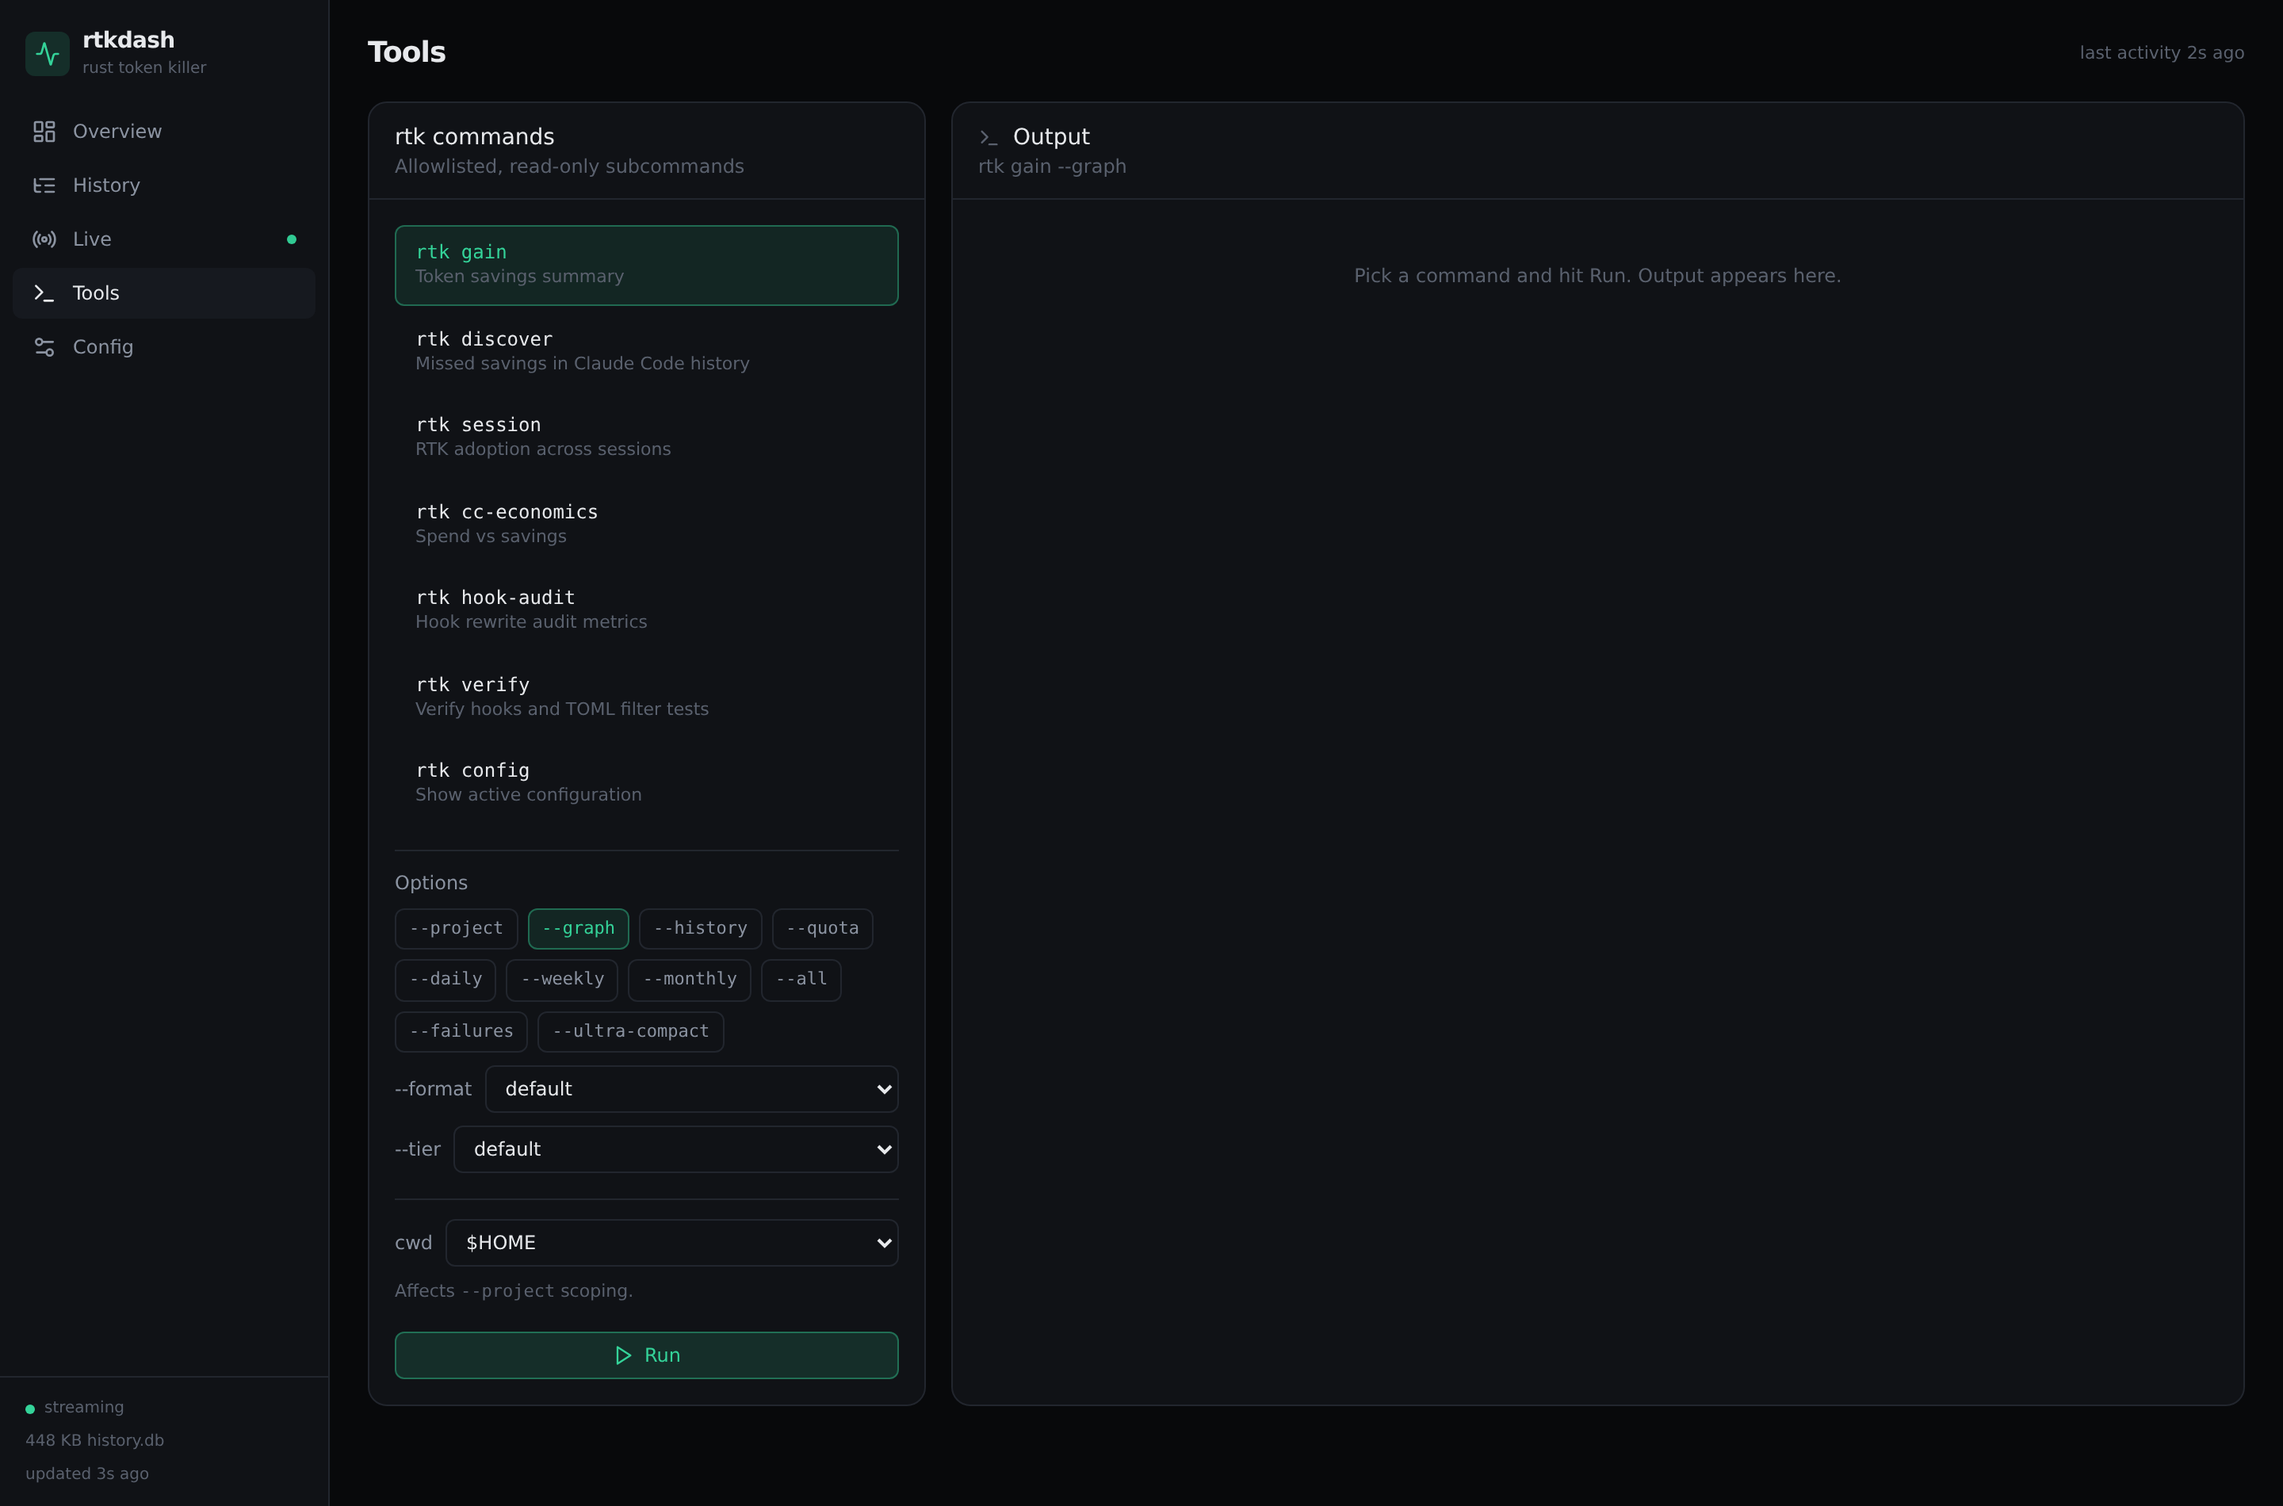
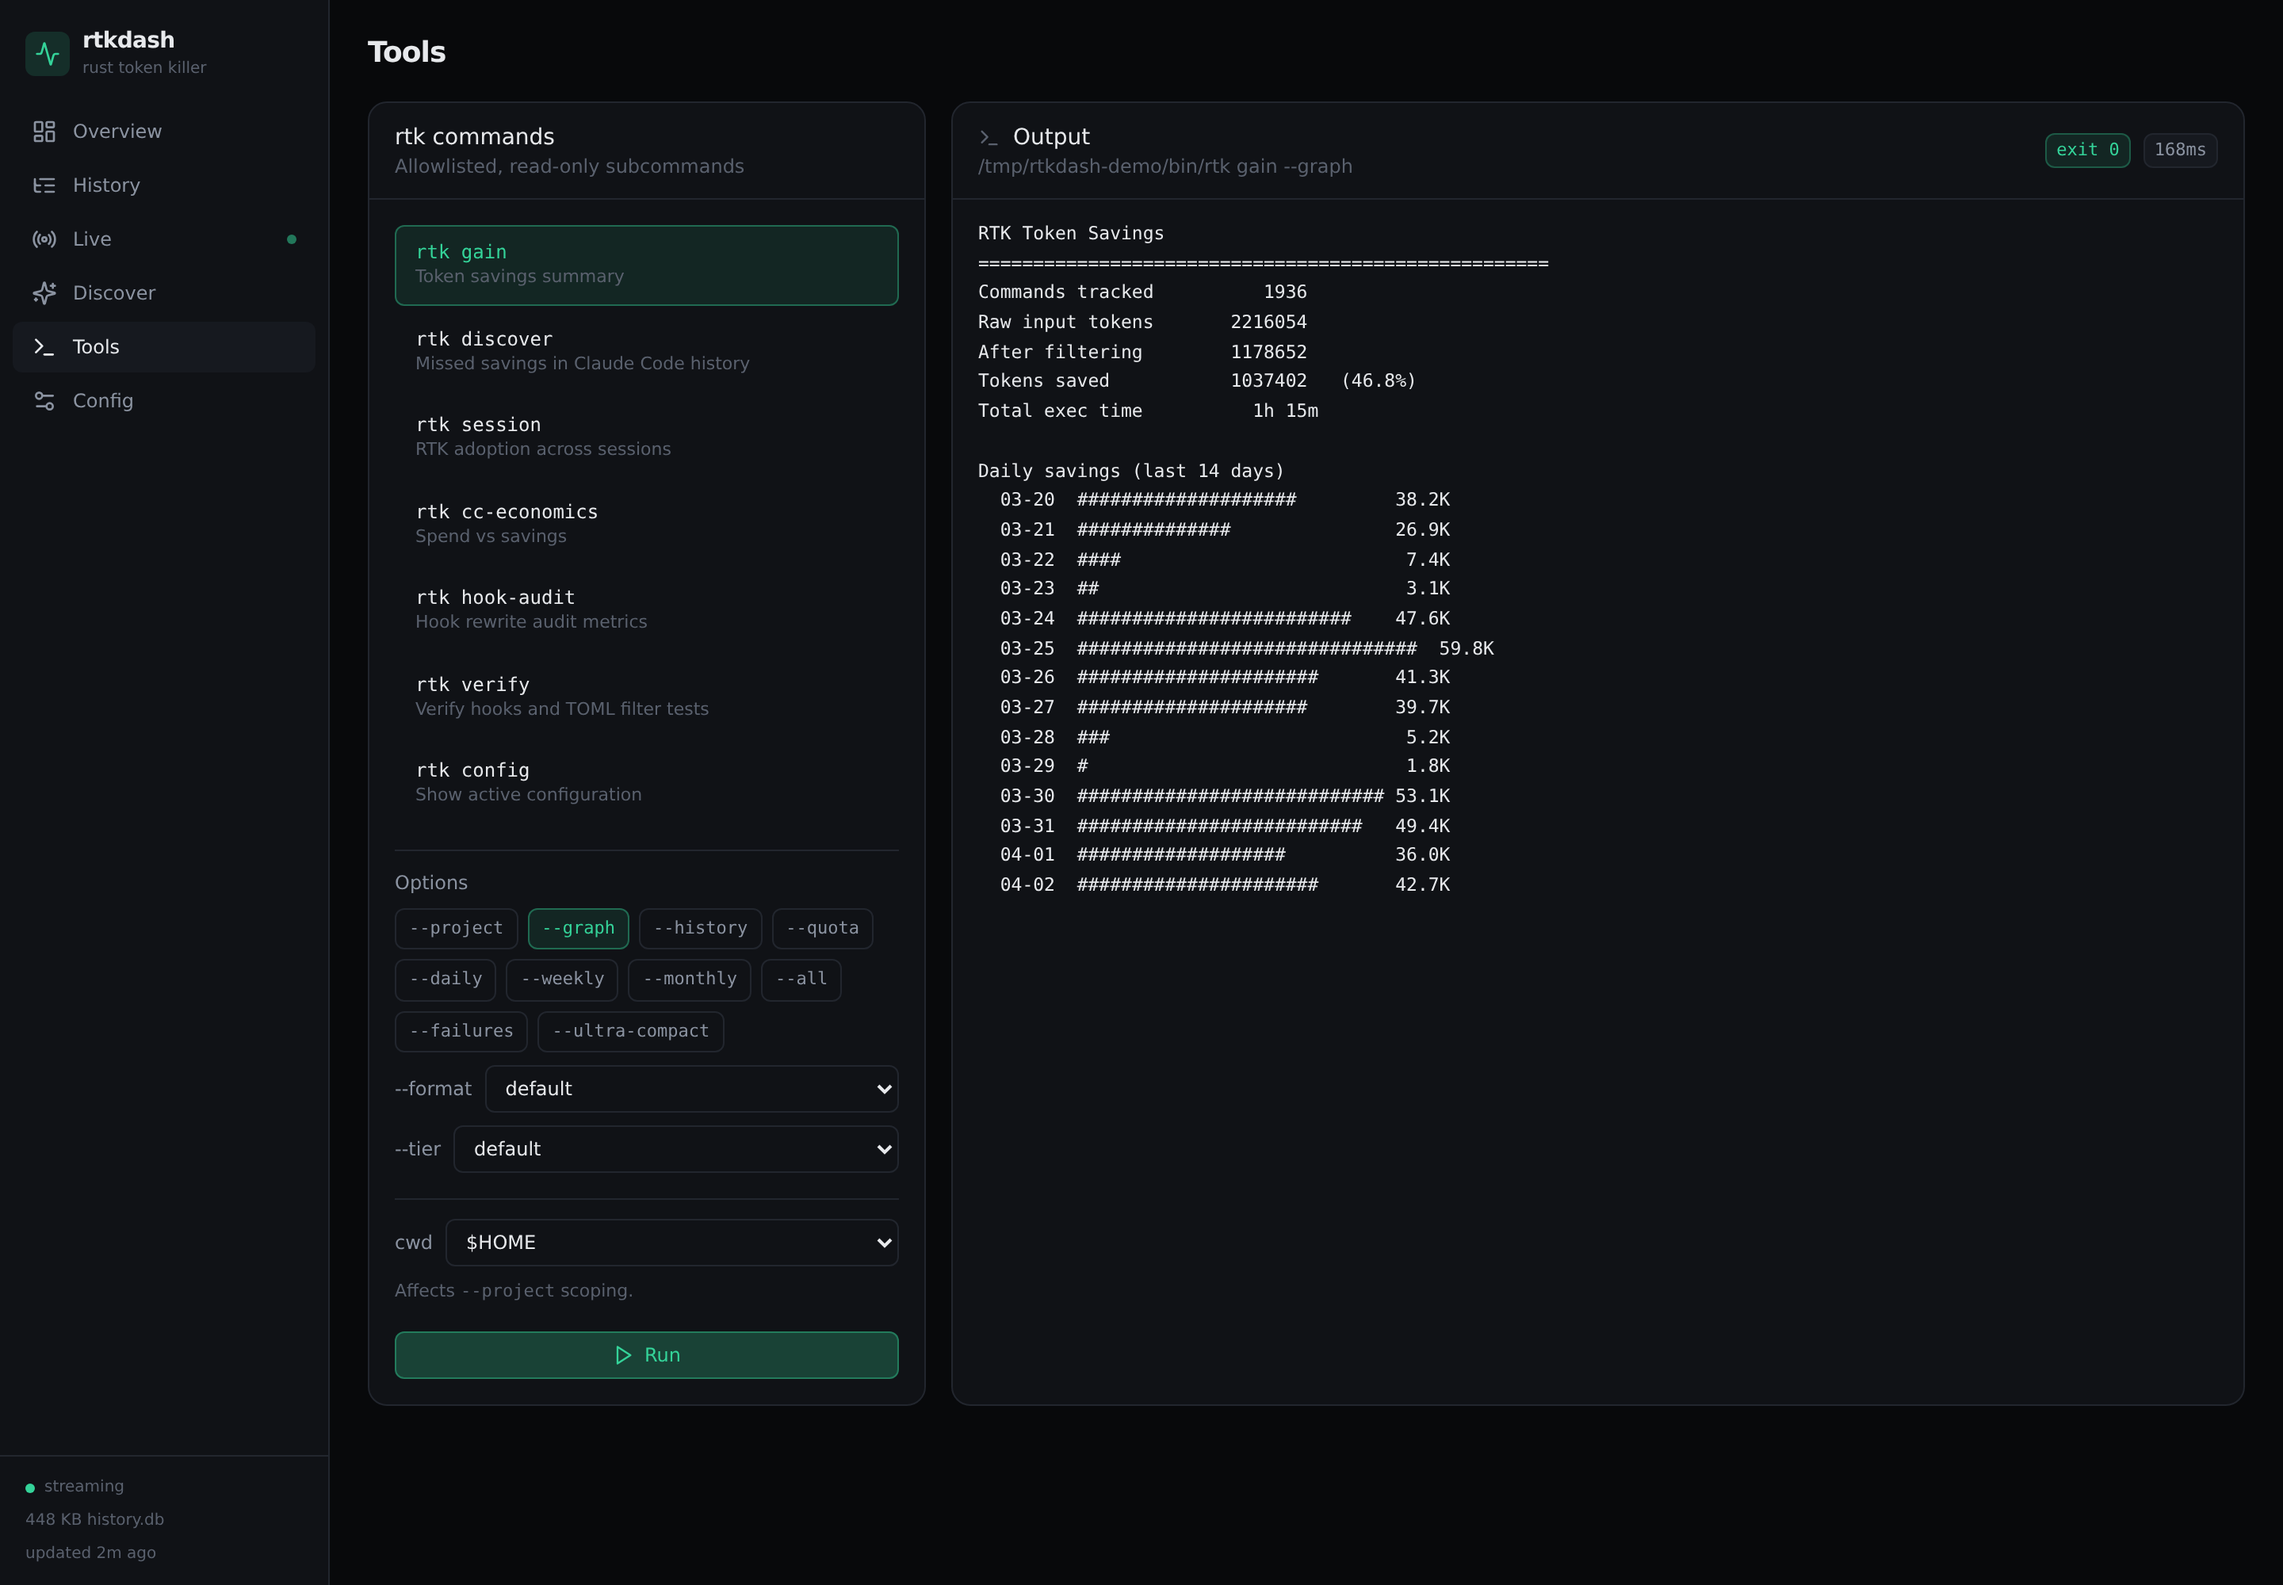
feat: add a fake rtk binary for demos and screenshots
The Discover view reads Claude Code history rather than the rtk database, so
the synthetic history from seed-demo.mjs could not produce a screenshot of it
without exposing real commands.

scripts/fake-rtk.mjs stands in for the rtk binary, printing canned output in
the exact shape the real one produces for discover, gain (text/json/csv, with
--graph/--quota/--history), session, cc-economics, hook-audit, verify, and
config. Pointing RTKDASH_RTK_BIN at it makes the Tools and Discover views work
with no rtk installed, which is also the more useful development setup.

- Discover screenshot added, Tools screenshot retaken with real output
- A test parses the stub's discover report, so the fixture cannot drift away
  from what the parser expects
- seed-demo.mjs now prints the full command to run against what it generated

diff --git a/tests/discover.test.js b/tests/discover.test.js
@@ -1,5 +1,15 @@
+import { execFileSync } from 'node:child_process';
+import path from 'node:path';
+import { fileURLToPath } from 'node:url';
 import { describe, expect, it } from 'vitest';
 import { parseDiscover, parseTokenCount } from '../server/lib/discover.js';
+
+const FAKE_RTK = path.join(
+  path.dirname(fileURLToPath(import.meta.url)),
+  '..',
+  'scripts',
+  'fake-rtk.mjs'
+);
 
 /** Verbatim shape of `rtk discover` output, with the values changed. */
 const SAMPLE = `RTK Discover -- Savings Opportunities
@@ -102,6 +112,31 @@ describe('parseDiscover', () => {
       const out = parseDiscover(input);
       expect(out.missed).toEqual([]);
       expect(out.unhandled).toEqual([]);
+    }
+  });
+
+  /**
+   * The demo stub doubles as a fixture. If someone edits its report into a
+   * shape the parser cannot read, the demo silently renders an empty table —
+   * this catches that.
+   */
+  it('parses the output of scripts/fake-rtk.mjs', () => {
+    const stdout = execFileSync(process.execPath, [FAKE_RTK, 'discover'], { encoding: 'utf8' });
+    const out = parseDiscover(stdout);
+
+    expect(out.missed.length).toBeGreaterThan(5);
+    expect(out.unhandled.length).toBeGreaterThan(3);
+    expect(out.totals.tokens).toBeGreaterThan(0);
+    expect(out.scanned.sessions).toBeGreaterThan(0);
+    expect(out.scanned.alreadyUsingPct).toBeGreaterThan(0);
+
+    for (const row of out.missed) {
+      expect(row.command).toBeTruthy();
+      expect(row.rtkEquivalent).toMatch(/^rtk /);
+      expect(row.savedTokens).toBeGreaterThan(0);
+    }
+    for (const row of out.unhandled) {
+      expect(row.example).toBeTruthy();
     }
   });
 

diff --git a/README.md b/README.md
@@ -17,6 +17,9 @@ rtk already records every filtered command to a local SQLite database. rtkdash r
 **Live** — SSE feed of commands as they run
 ![Live](docs/screenshots/03-live.png)
 
+**Discover** — commands that ran raw when rtk already had a filter for them
+![Discover](docs/screenshots/06-discover.png)
+
 **Tools** — allowlisted rtk subcommand runner
 ![Tools](docs/screenshots/04-tools.png)
 
@@ -25,7 +28,9 @@ rtk already records every filtered command to a local SQLite database. rtkdash r
 
 </details>
 
-> All screenshots use synthetic data generated by `scripts/seed-demo.mjs`.
+> All screenshots use synthetic data — `scripts/seed-demo.mjs` for the history
+> database and `scripts/fake-rtk.mjs` standing in for the rtk binary. No real
+> paths, projects, or commands appear in any of them.
 
 > **AI disclosure:** this project was written almost entirely by Claude (Anthropic's Claude Code), from the schema exploration through the API, the UI, and this README. A human directed the scope, made the architectural calls, and reviewed and tested the result — but if you are auditing this code before running it, assume every line is machine-authored and read it accordingly. Given that it executes commands and writes files on your host, that review is worth doing.
 
@@ -70,12 +75,21 @@ UI — seed a synthetic database:
 
 ```bash
 node scripts/seed-demo.mjs
-RTKDASH_DB=demo/history.db RTKDASH_CONFIG_DIR=demo/config npm start
+RTKDASH_DB=demo/history.db \
+RTKDASH_CONFIG_DIR=demo/config \
+RTKDASH_RTK_BIN=./scripts/fake-rtk.mjs \
+npm start
 ```
 
-That generates ~1,900 fake commands across six fictional projects over 30 days.
-It touches nothing outside the target directory, and the PRNG is seeded, so the
-charts are reproducible.
+`seed-demo.mjs` generates ~1,900 fake commands across six fictional projects
+over 30 days. It touches nothing outside the target directory, and the PRNG is
+seeded, so the charts are reproducible.
+
+`fake-rtk.mjs` stands in for the rtk binary, printing canned output in the
+exact shape the real one produces. It makes the Tools and Discover views work
+without rtk installed — useful for development, and it is how the screenshots
+above were taken. A test parses its Discover report so the stub cannot drift
+away from what the parser expects.
 
 ## Views
 
@@ -297,6 +311,7 @@ server/            Express API — plain ESM, no build step
     stream.js      SSE live tail
 scripts/
   seed-demo.mjs    Generates a synthetic history database
+  fake-rtk.mjs     Stand-in for the rtk binary, for demos and screenshots
 tests/             Vitest suite over the API and the runner allowlist
 web/src/
   api.ts           Typed client and the shared filter type
